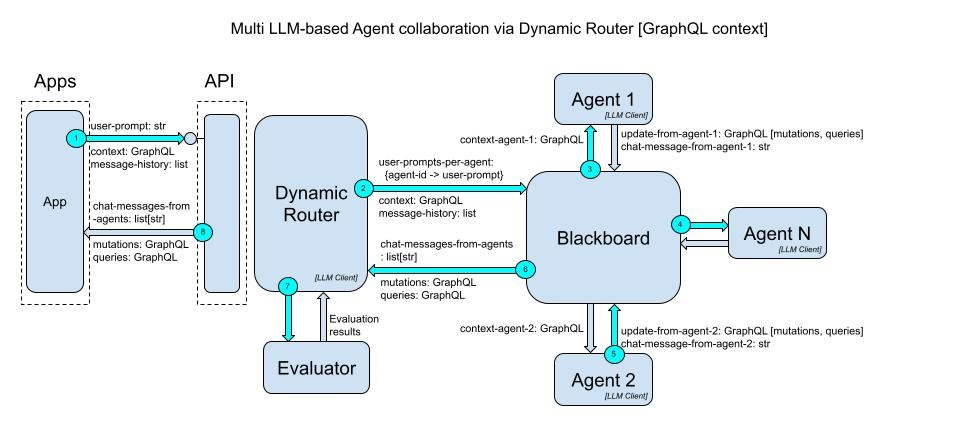
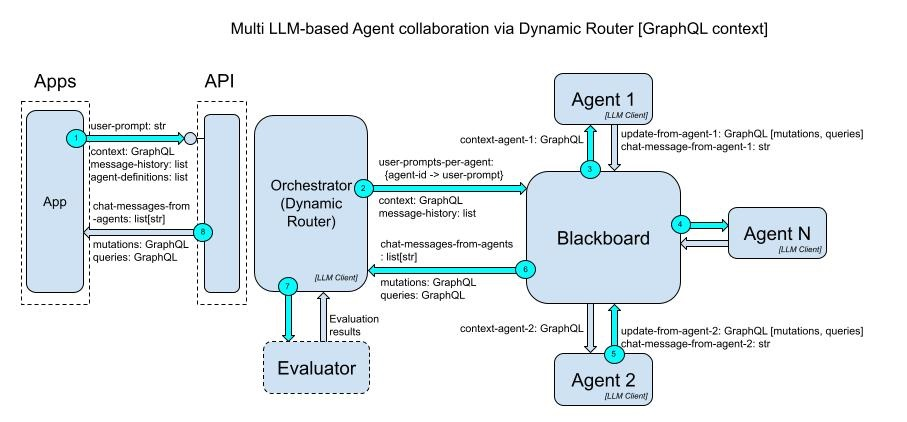
Up diagram and README to use more standard term 'orchestrator'

diff --git a/README.md b/README.md
@@ -5,10 +5,10 @@ A simple dynamic multi-agent framework based on [atomic-agents](https://github.c
 - convert user input into data modifications (functions or GraphQL mutations)
 - to maximise user engagement, uses a 2-phase process:
   - Planning Phase:
-    - a router uses an LLM to process complex 'composite' user prompts, and automatically route them to the best sequence of your agents
-      - the router rewrites the user prompt, to best suit each agent
+    - the `Orchestrator` uses an LLM to process complex 'composite' user prompts, and automatically route them to the best sequence of your agents
+      - the Orchestrator rewrites the user prompt, to best suit each agent. This is to ensure quality and avoid unwanted 'over-eager' output.
       - an execution plan is generated
-      - the client can use the `router` to iterate over the execution plan, with user feedback
+      - the client can use the Orchestrator to iterate over the execution plan, with user feedback
   - Generation Phase:
       - when the user is happy -> the client can use the `generator` to execute the plan, using the recommended agents
       - the client then receives function calls (or GraphQL mutations) to update the data
@@ -59,17 +59,17 @@ The agents communicate indirectly using a blackboard. The language is composed o
 
 ![System overview](https://raw.githubusercontent.com/mrseanryan/gpt-multi-atomic-agents/master/images/diagram-Multi-LLM-based-Agent-collaboration-via-Dynamic-Router-GraphQL-context.jpg)
 
-A router takes the user prompt and generates an agent execution plan.
+A `Dynamic Router Orchestrator` takes the user prompt and generates an agent execution plan. This is an LLM-backed Orchestrator which builds an execution plan to dynamically route the user prompt to the relevant agents.
 
 The execution plan uses the best sequence of the most suitable agents, to handle the user prompt.
 
-The router rewrites the user prompt to suit each agent, which improves quality and avoids unwanted output.
+The Orchestrator rewrites the user prompt to suit each agent, which improves quality and avoids unwanted output.
 
-> **_NOTE:_** Optionally, the router can be run separately, allowing for human-in-the-loop feedback on the execution plan that the router generated. In this way, the user can collaborate more with the router, before the generative agents are actually executed.
+> **_NOTE:_** Optionally, the Orchestrator can be run separately, allowing for human-in-the-loop feedback on the execution plan that the Orchestrator generated. In this way, the user can collaborate more with the Orchestrator, before the generative agents are actually executed.
 
 > **_NOTE:_** An agent is serializable (basically a JSON document), so Agents can be imported, exported and even edited by clients as needed. For example 'dynamic' Custom Agents, see the [TypeScript client dynamic agents](https://github.com/mrseanryan/gpt-multi-atomic-agents/blob/master/clients/gpt-maa-ts/data-agents).
 
-- this allows the user to have more control over the output, and has the added benefit of reducing the *perceived* time taken to generate, since the user has intermediate interaction with the router.
+- this allows the user to have more control over the output, and has the added benefit of reducing the *perceived* time taken to generate, since the user has intermediate interaction with the Orchestrator.
 
 Finally, the output is returned in the form of an ordered list of (Function or GraphQL) calls.
 
@@ -312,13 +312,13 @@ Generated 3 function calls
 [Agent: Relationship Creator] AddCreatureRelationship( from_name=sheep, to_name=grass, relationship_name=eats )
 ```
 
-Because the framework has a dynamic router, it can handle more complex 'composite' prompts, such as:
+Because the framework has a 'Dynamic Router' Orchestrator, it can handle more complex 'composite' prompts, such as:
 
 > Add a cow that eats grass. Add a human - the cow feeds the human. Add and alien that eats the human. The human also eats cows.
 
-The router figures out which agents to use, what order to run them in, and what prompt to send to each agent.
+The Orchestrator figures out which agents to use, what order to run them in, and what prompt to send to each agent.
 
-Optionally, the router can be re-executed with user feedback on its genereated plan, before actually executing the agents.
+Optionally, the Orchestrator can be re-executed with user feedback on its genereated plan, before actually executing the agents.
 
 The recommended agents are then executed in order, building up their results in the shared blackboard.
 
